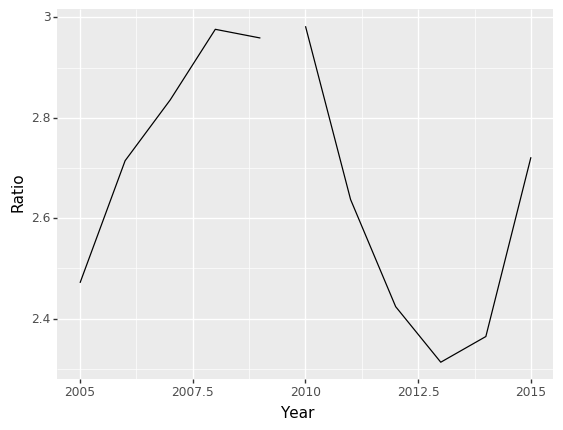
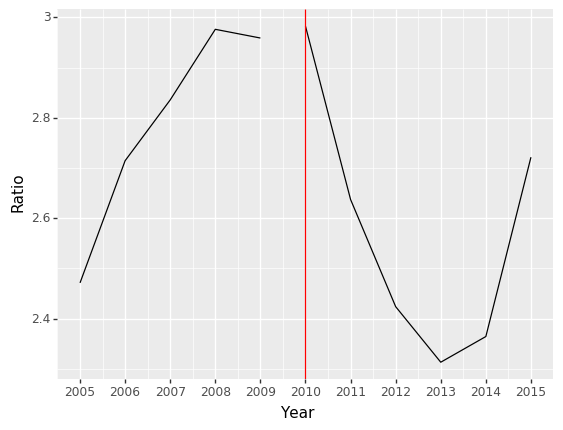
Uploaded a new version of Mort-Pop plots for all three states.

diff --git a/20_intermediate_files/MortPop_plot.py b/20_intermediate_files/MortPop_plot.py
@@ -4,7 +4,6 @@ import numpy as np
 from plotnine import *
 
 #Get a general sense of the Florida data.
-pwd
 fl = pd.read_csv('FLMortPopData.csv')
 fl.head()
 
@@ -28,12 +27,15 @@ before_policy_aggr.head()
 after_policy_aggr = after_policy.groupby('Year', as_index = False).sum()
 # Add a column of death to state population ration for plotting purposes.
 after_policy_aggr['Ratio'] = after_policy_aggr['Deaths'] * 1000000 / after_policy_aggr['State Population']
-after_polic
-y_aggr
+after_policy_aggr
 
 
-
-fl_plot = ggplot() + geom_line(before_policy_aggr, aes(x='Year', y='Ratio')) + geom_line(after_policy_aggr, aes(x='Year', y='Ratio'))
+fl_plot = (ggplot() +
+    geom_line(before_policy_aggr, aes(x='Year', y='Ratio')) +
+    geom_line(after_policy_aggr, aes(x='Year', y='Ratio')) +
+    scale_x_continuous(breaks = range(2005, 2016)) +
+    geom_vline(xintercept=2010, colour="red"))
+print(fl_plot)
 fl_plot.save("fl_Mort_Pop.png")
 
 
@@ -43,10 +45,10 @@ wa = pd.read_csv('WAMortPopData.csv')
 wa.head()
 
 wa['Year'].value_counts()
-# Since the policy became effective in Washington in 2012, we choose data from 2007-2011 and data from 2012-2017.
+# Since the policy became effective in Washington in 2012, we choose data from 2007-2011 and data from 2012-2015.
 # Create two separate dataframes containing only data before and after the policcy year.
 wa_bef = range(2007, 2012)
-wa_aft = range(2012, 2018)
+wa_aft = range(2012, 2016)
 wa_before_policy = wa[wa['Year'].isin(wa_bef)]
 wa_after_policy = wa[wa['Year'].isin(wa_aft)]
 wa_before_policy['Year'].value_counts()
@@ -66,7 +68,12 @@ wa_after_policy_aggr
 
 
 
-wa_plot = ggplot() + geom_line(wa_before_policy_aggr, aes(x='Year', y='Ratio')) + geom_line(wa_after_policy_aggr, aes(x='Year', y='Ratio'))
+wa_plot = (ggplot() +
+    geom_line(wa_before_policy_aggr, aes(x='Year', y='Ratio')) +
+    geom_line(wa_after_policy_aggr, aes(x='Year', y='Ratio')) +
+    scale_x_continuous(breaks = range(2007, 2018)) +
+    geom_vline(xintercept=2012, colour="red"))
+print(wa_plot)
 wa_plot.save("wa_Mort_Pop.png")
 
 
@@ -100,5 +107,10 @@ tx_after_policy_aggr
 
 
 
-tx_plot = ggplot() + geom_line(tx_before_policy_aggr, aes(x='Year', y='Ratio')) + geom_line(tx_after_policy_aggr, aes(x='Year', y='Ratio'))
+tx_plot = (ggplot() +
+    geom_line(tx_before_policy_aggr, aes(x='Year', y='Ratio')) +
+    geom_line(tx_after_policy_aggr, aes(x='Year', y='Ratio')) +
+    scale_x_continuous(breaks = range(2003, 2012)) +
+    geom_vline(xintercept=2007, colour="red") )
+print(tx_plot)
 tx_plot.save("tx_Mort_Pop.png")
